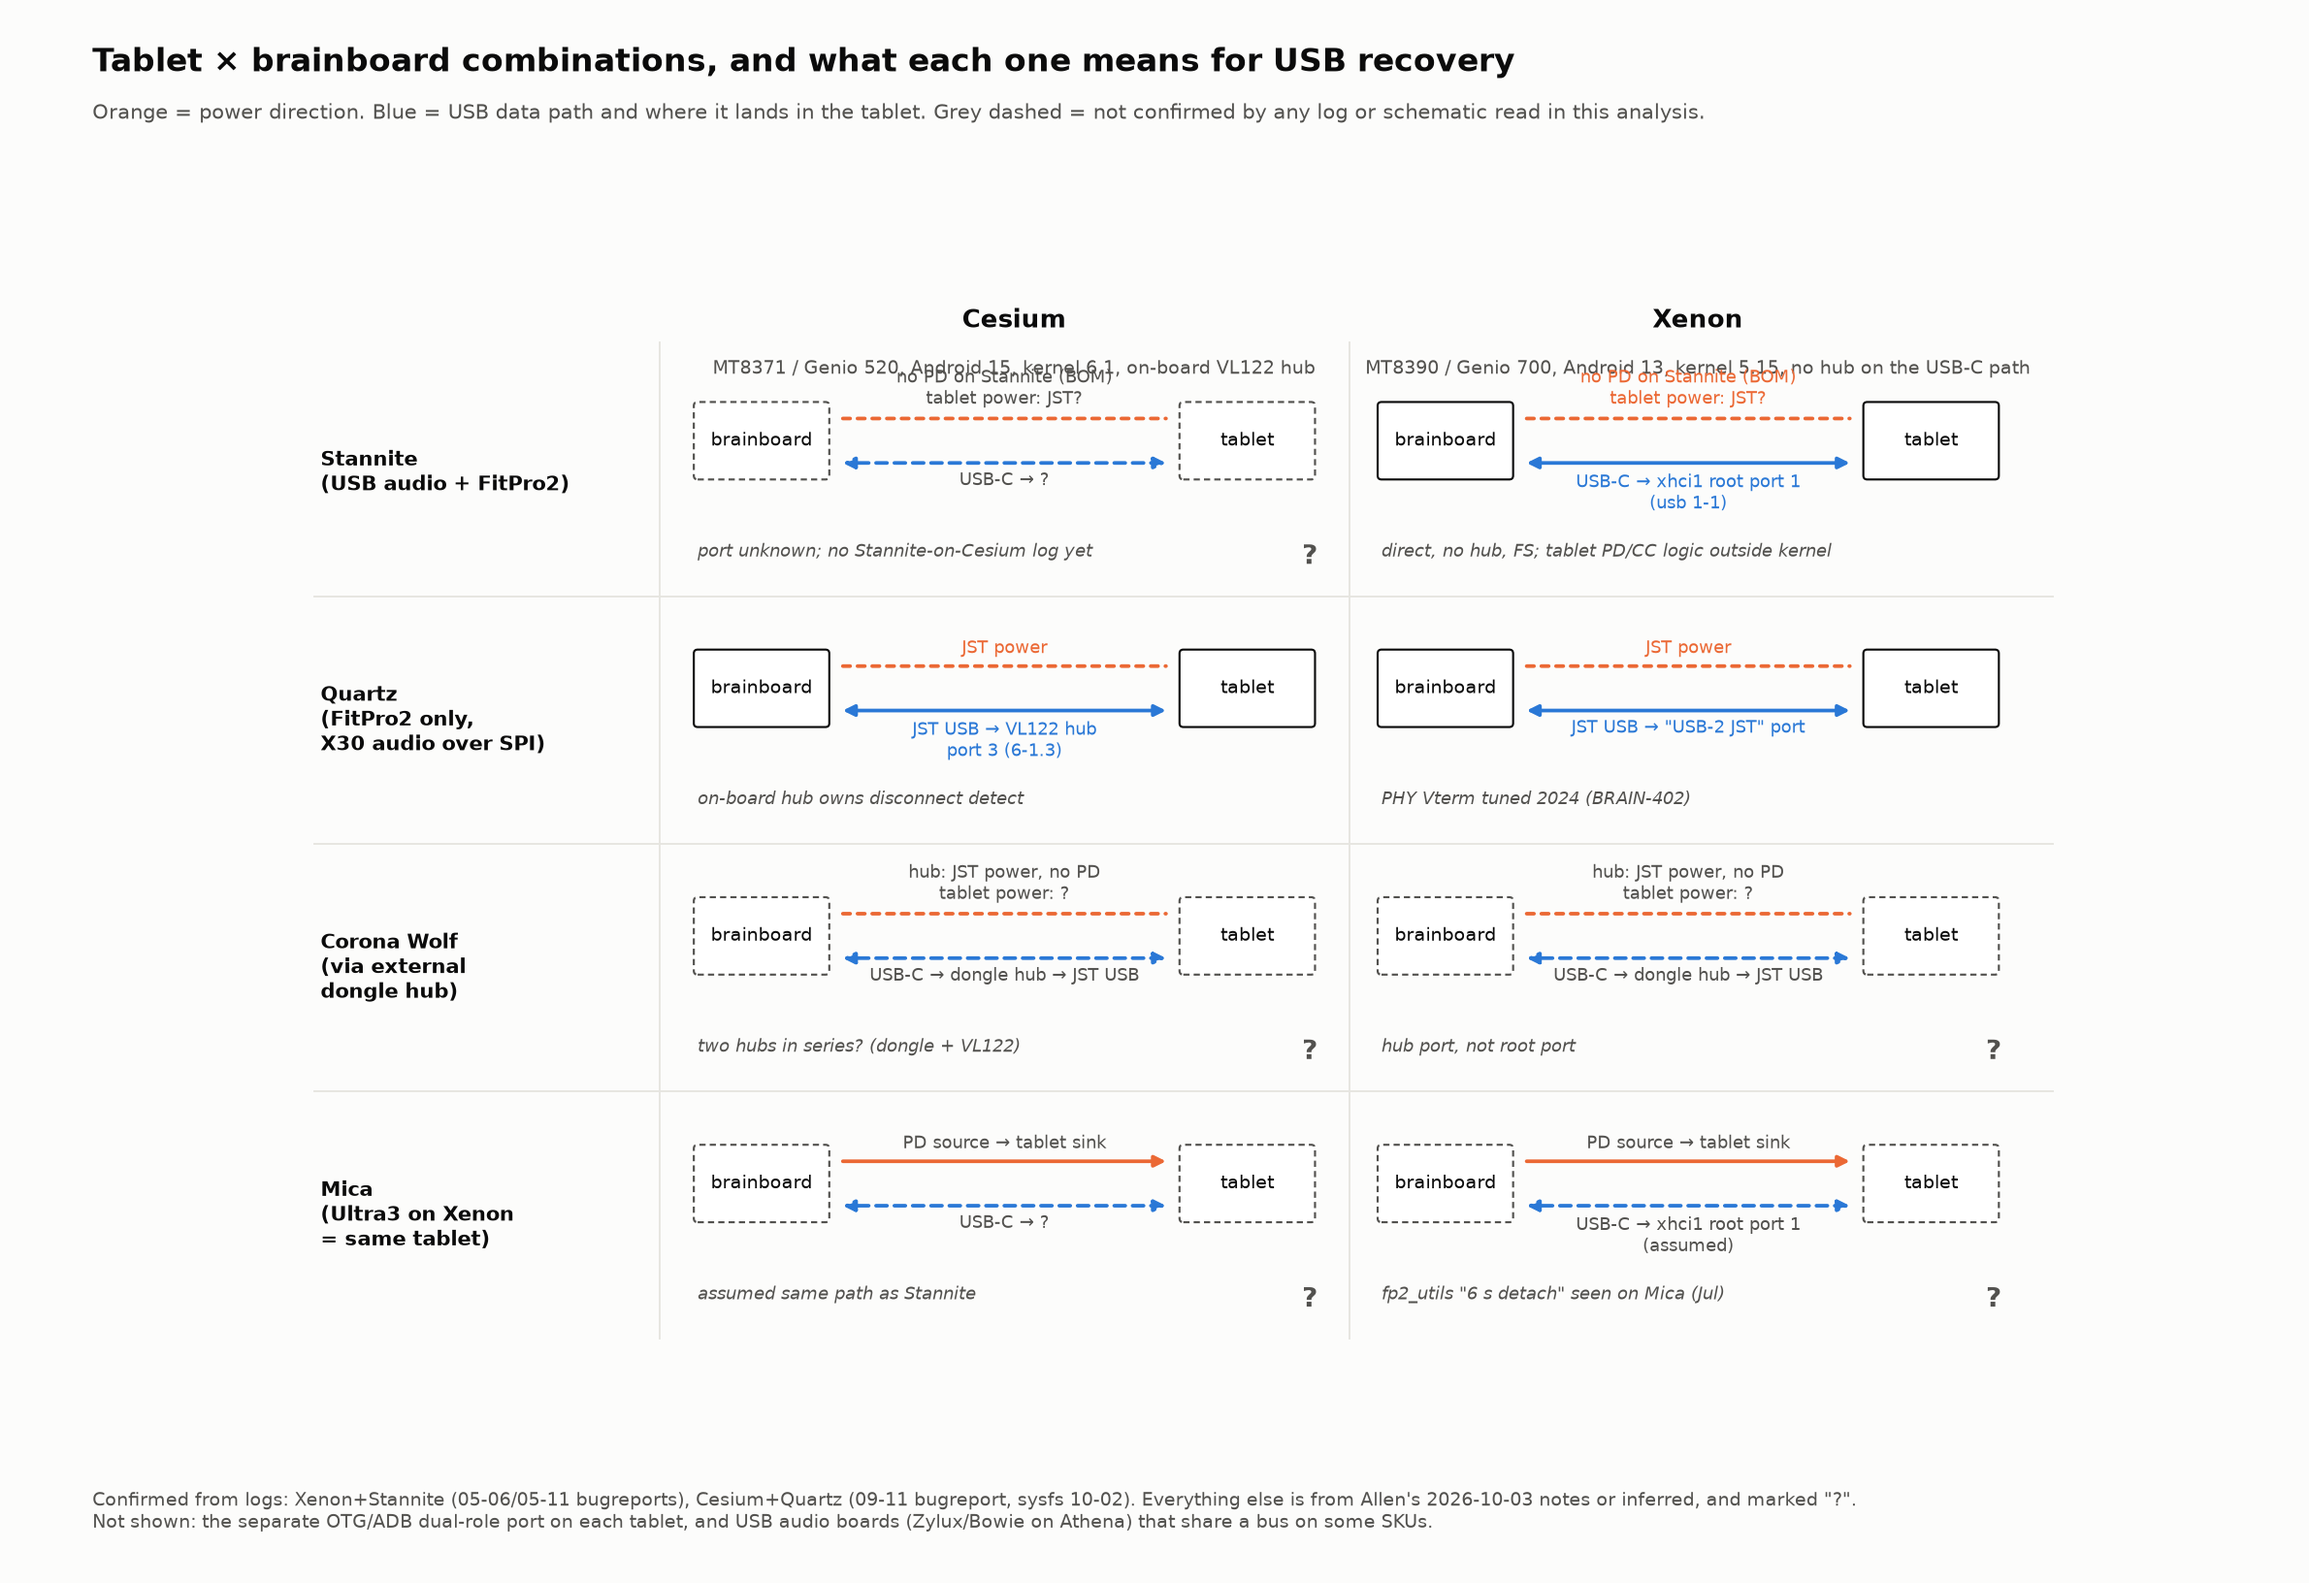
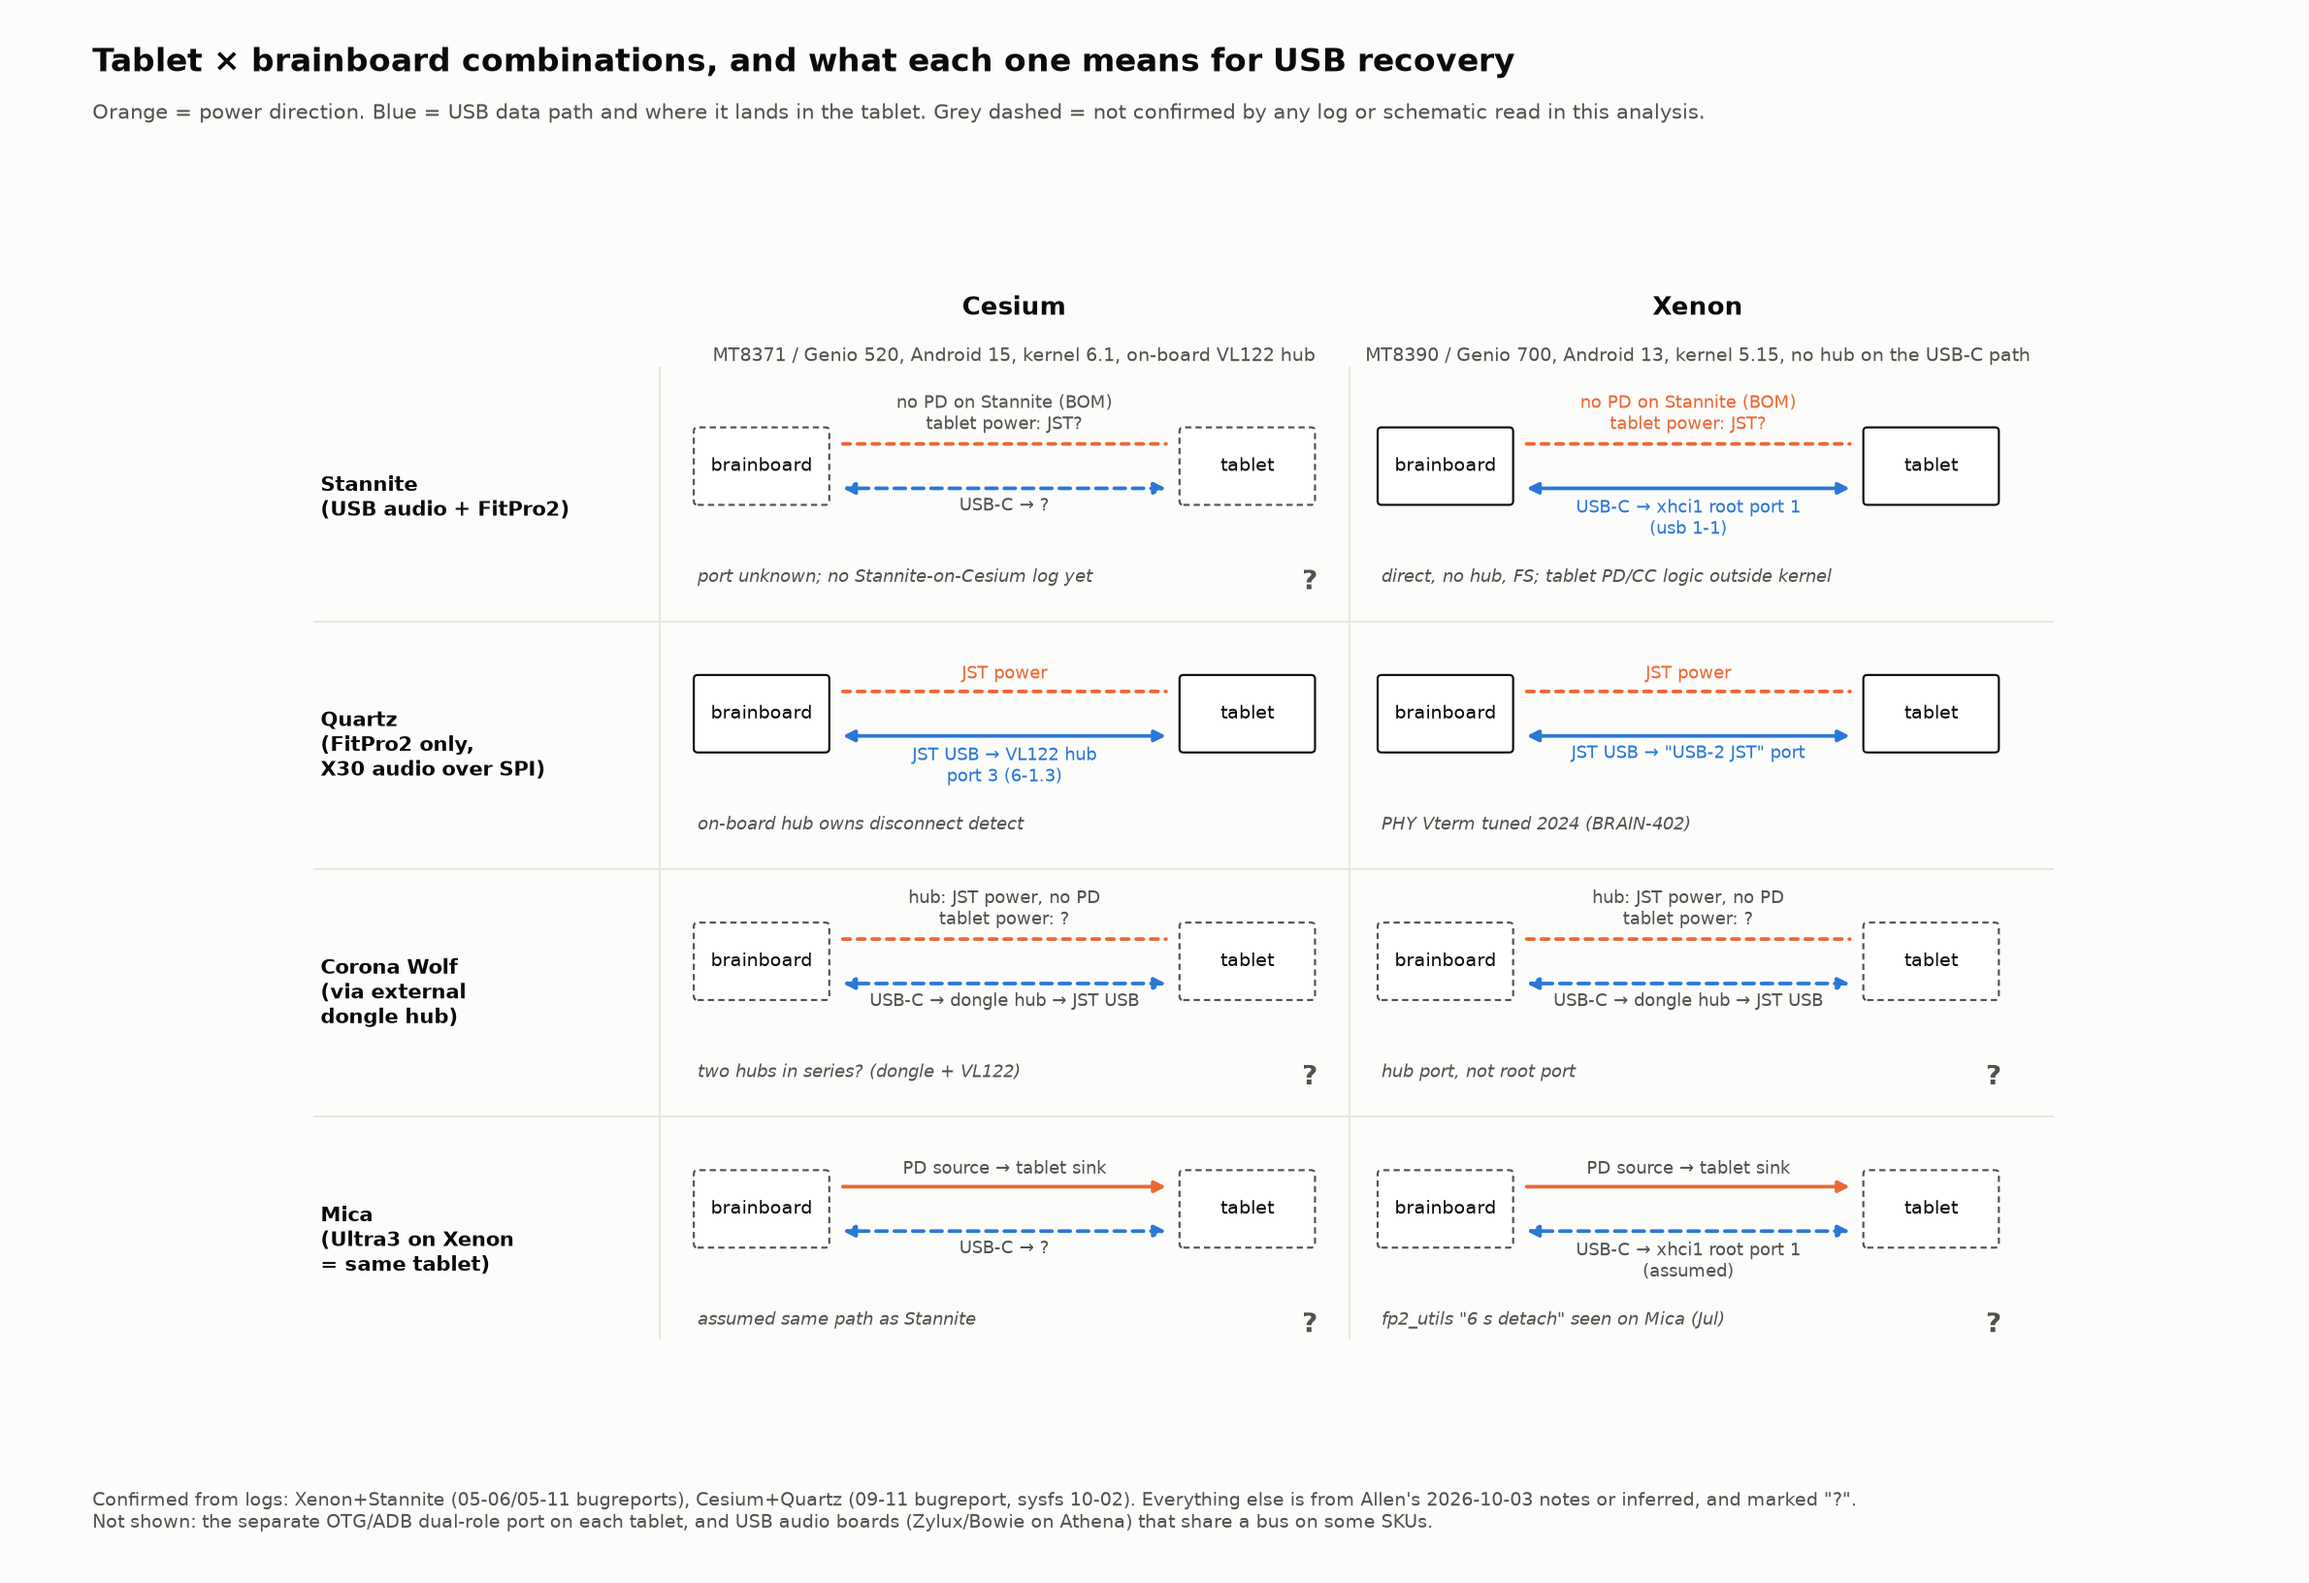
CRY-657: matrix figure header spacing
Claude-Session: https://claude.ai/code/session_01UmX4RrdcgMPBMAkNmpQijY

diff --git a/CRY-657_sku_matrix.py b/CRY-657_sku_matrix.py
@@ -26,10 +26,10 @@ ax.set_xlim(0, 14); ax.set_ylim(0, 9.6); ax.axis('off')
 fig.text(0.04, 0.955, 'Tablet × brainboard combinations, and what each one means for USB recovery', fontsize=14, weight='bold', color=INK)
 fig.text(0.04, 0.925, 'Orange = power direction. Blue = USB data path and where it lands in the tablet. Grey dashed = not confirmed by any log or schematic read in this analysis.', fontsize=9, color=INK2)
 
-x0 = 3.0; cw = 5.35; rh = 1.95; ytop = 8.35
+x0 = 3.0; cw = 5.35; rh = 1.95; ytop = 8.15
 for ci, c in enumerate(cols):
-    ax.text(x0 + ci*cw + cw/2, ytop + 0.12, c.split('\n')[0], ha='center', va='bottom', fontsize=11, weight='bold', color=INK)
-    ax.text(x0 + ci*cw + cw/2, ytop + 0.10, '\n'+c.split('\n')[1], ha='center', va='top', fontsize=8, color=INK2)
+    ax.text(x0 + ci*cw + cw/2, ytop + 0.42, c.split('\n')[0], ha='center', va='bottom', fontsize=11, weight='bold', color=INK)
+    ax.text(x0 + ci*cw + cw/2, ytop + 0.40, '\n'+c.split('\n')[1], ha='center', va='top', fontsize=8, color=INK2)
 for ri, (name, ces, xen) in enumerate(rows):
     y = ytop - ri*rh - rh
     ax.text(0.25, y + rh/2, name, ha='left', va='center', fontsize=9, weight='bold', color=INK)
